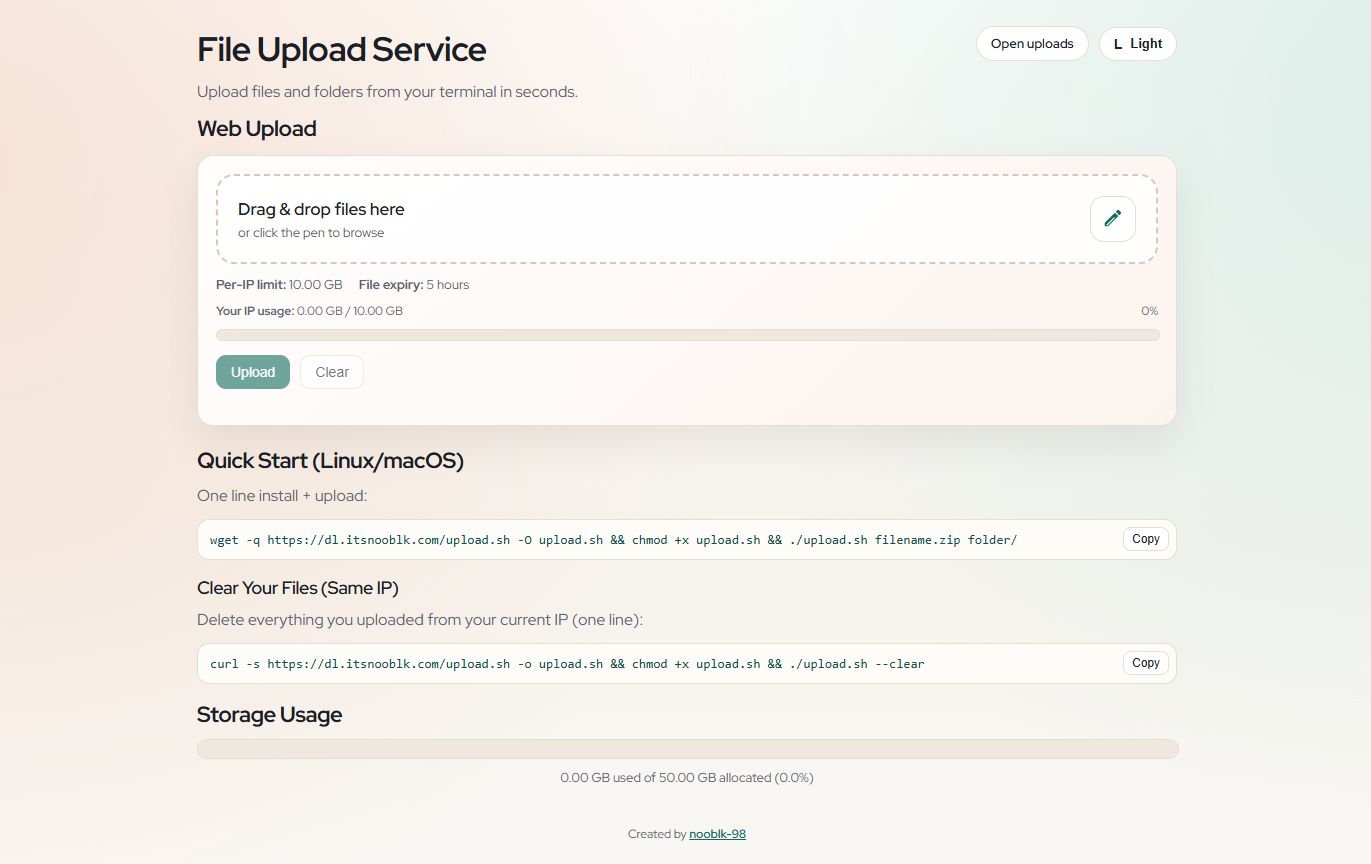
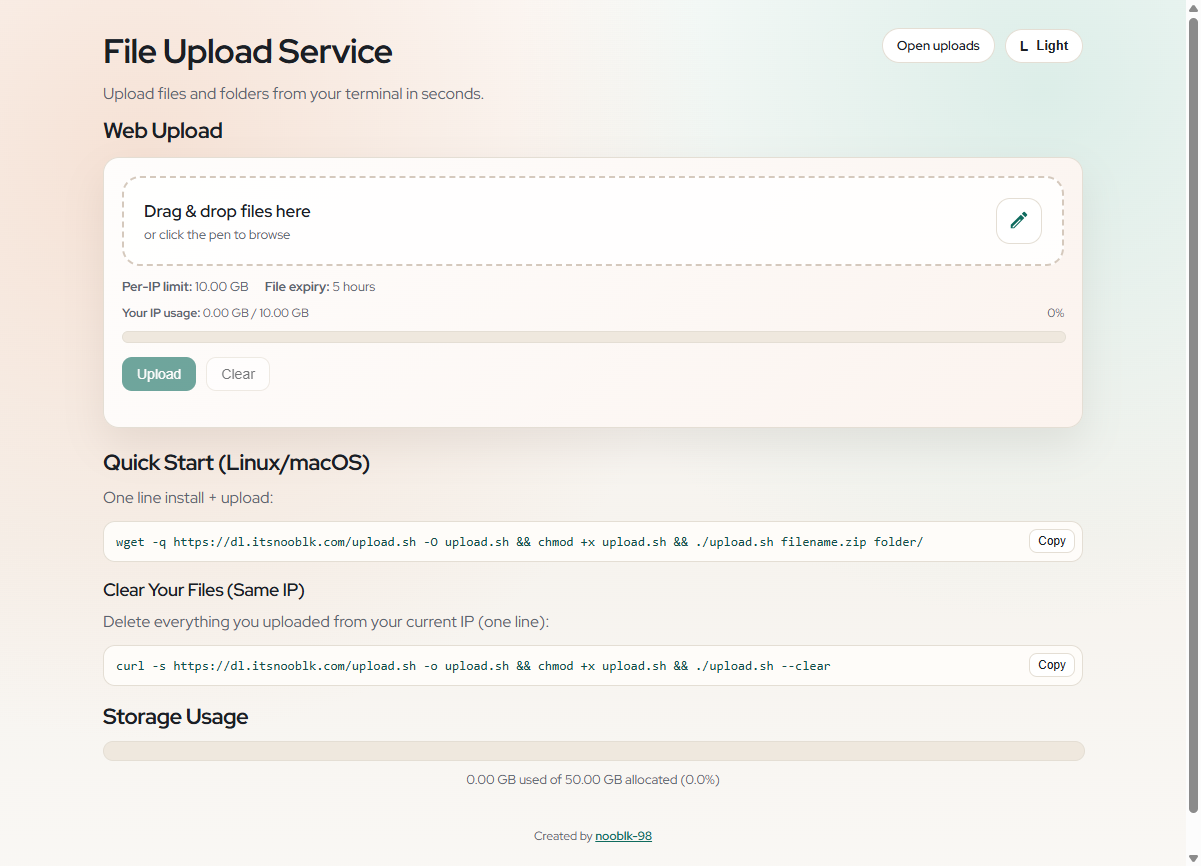
Update UI screenshots in README and images
Added a new UI screenshot (ui_2.png) and updated the existing ui.png image. The README now displays both screenshots to better showcase the application's interface.

diff --git a/README.md b/README.md
@@ -3,6 +3,8 @@
 Upload files and folders from your terminal and get a download link.
 
 ![UI Screenshot](images/ui.png)
+---
+![UI Screenshot](images/ui_2.png)
 
 ## Features
 
